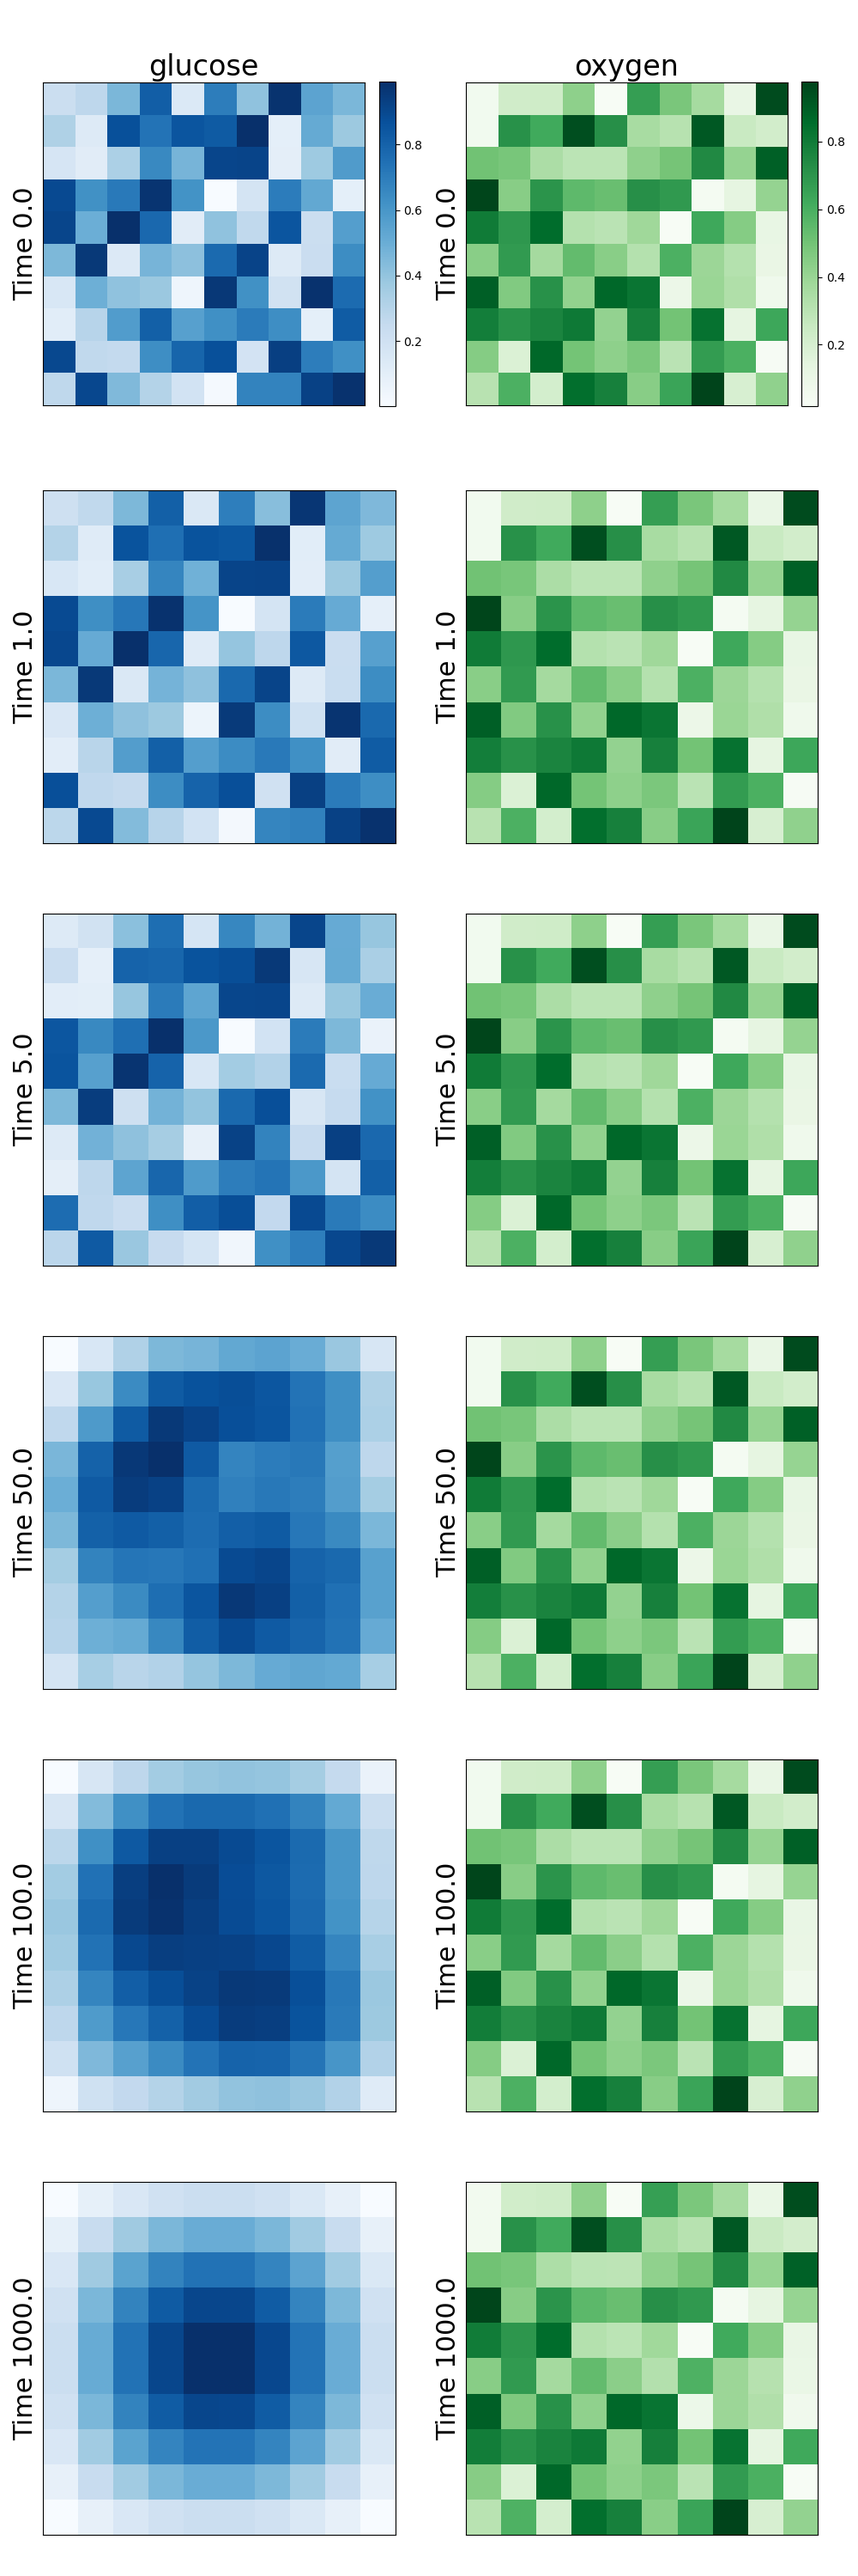
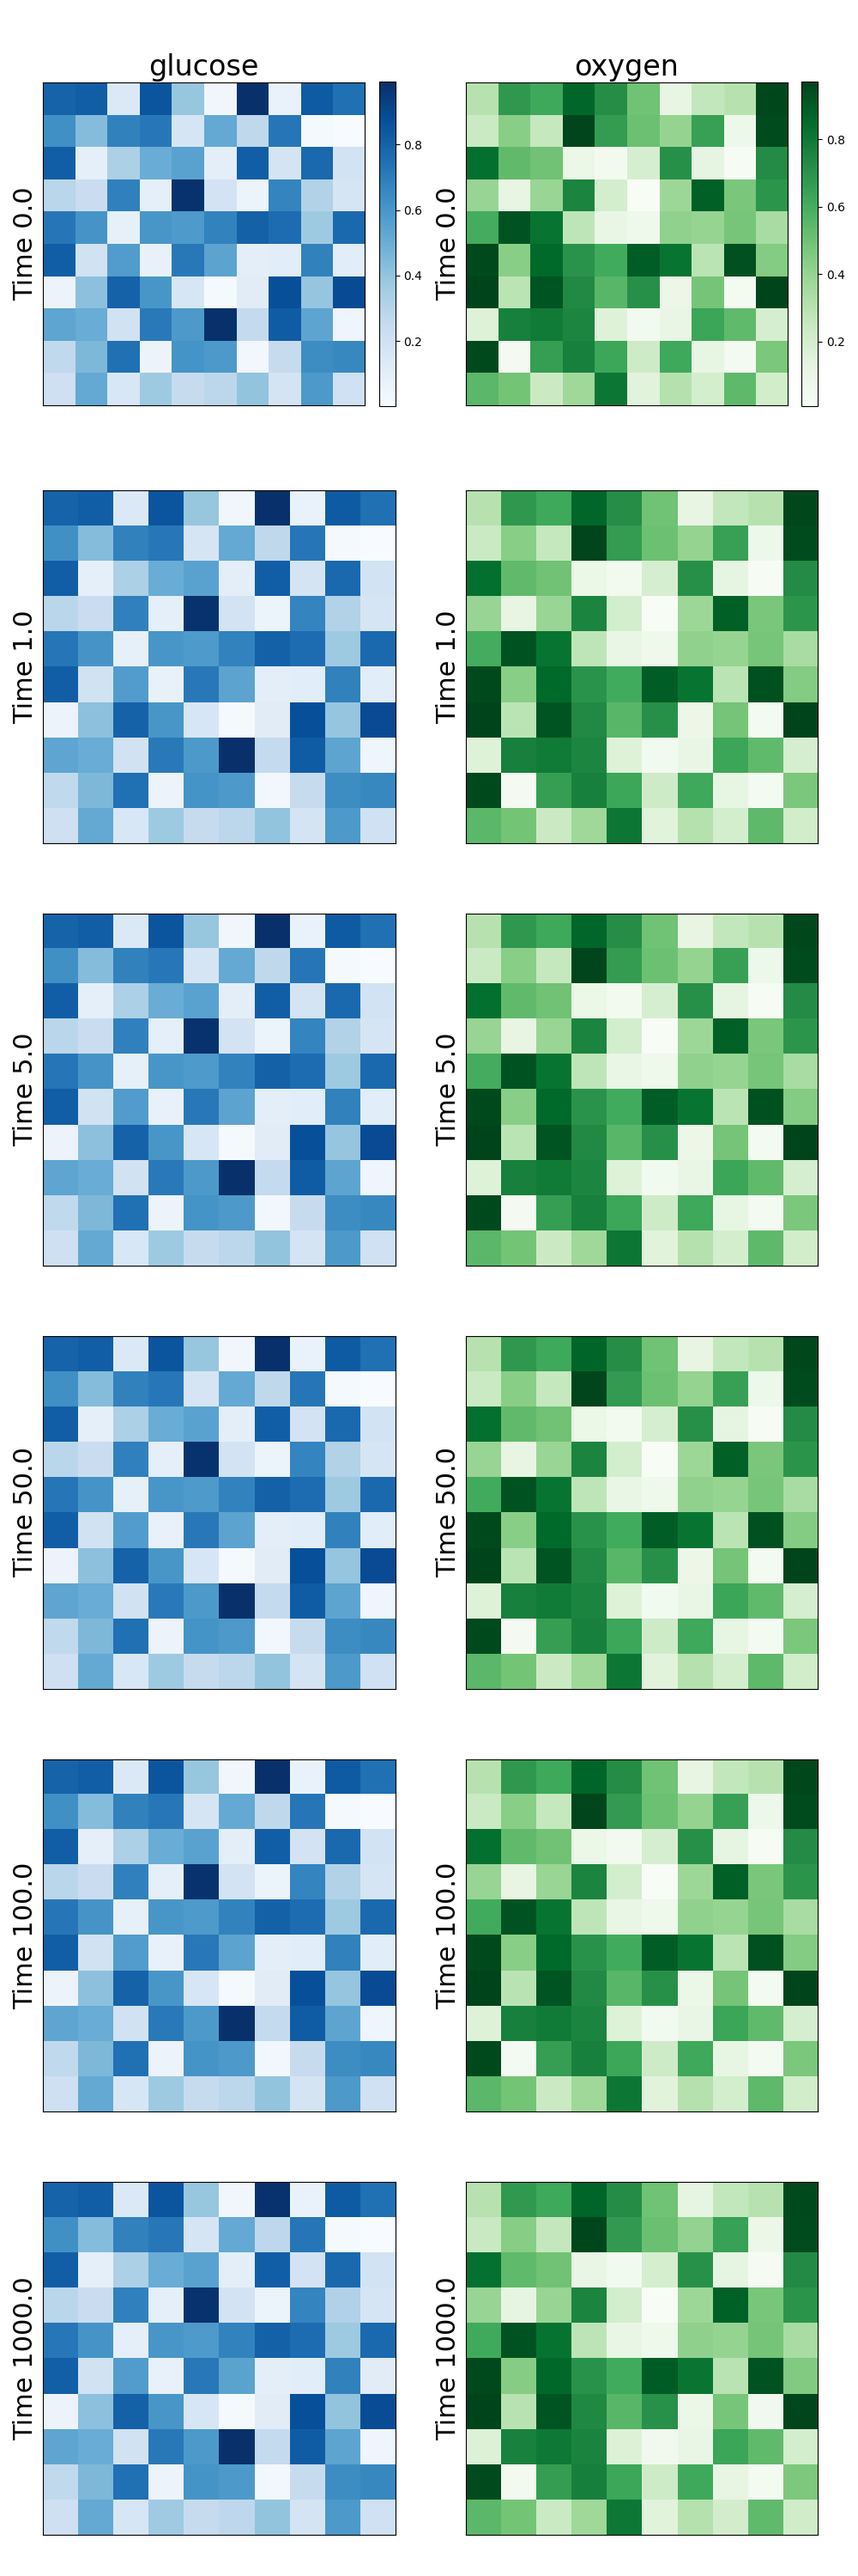
FBA test need to be fixed

diff --git a/processes/diffusion_field.py b/processes/diffusion_field.py
@@ -46,7 +46,7 @@ class DiffusionField(Process):
         'default_diffusion_dt': 0.001,
         'default_diffusion_rate': 2E-5,  # cm^2/s, set to the highest diffusion coefficient (oxygen)
         'diffusion': {
-            'glucose': 6.7E-2,        #6.7E-6,  # cm^2/s  TODO should find the current rate for cm^3
+            'glucose': 6.7E-6,  # cm^2/s  TODO should find the current rate for cm^3
             'oxygen':  2.0E-5,   # cm^2/s
         },
     }
@@ -131,7 +131,6 @@ class DiffusionField(Process):
 
     def next_update(self, timestep, states):
         fields = states['fields']
-        #cubic_dict = {} 
         fields_new = copy.deepcopy(fields)
         for mol_id, field in fields.items():
             diffusion_rate = self.molecule_specific_diffusion.get(mol_id, self.diffusion_rate)
@@ -189,7 +188,6 @@ def plot_fields_temporal(fields_data, desired_time_points, actual_time_points, z
     molecule_colormaps = {
         'glucose': 'Blues',
         'oxygen': 'Greens',
-        # Add more mappings as needed
     }
 
     for mol_idx, molecule in enumerate(fields_data.keys()):
@@ -218,9 +216,6 @@ def plot_fields_temporal(fields_data, desired_time_points, actual_time_points, z
     plt.close()
 
 
-
-
-
 class Spatial_FBA(Process):
     defaults = {
         'bounds': [3, 3, 3], # cm
@@ -240,11 +235,12 @@ class Spatial_FBA(Process):
         #load FBA models
         self.models = {}
         for species, modelpath in self.parameters["species"].items():
-            self.models[species] = read_sbml_model(modelpath)
+            self.models[species] = read_sbml_model(self.parameters['model_file'])
 
-    #TODO Species and fields similar to diffusion class
     def ports_schema(self):
         return {
+            'species': {},
+            'fields': {},
             'cubic_dict': {
                 '_default': {},
                 '_updater': 'set',
@@ -297,21 +293,12 @@ def test_fields():
             'dimensions': ('dimensions',),
         }}
     )
-
-
-
     # Run the simulation
     sim.update(total_time)
-
     # Get the results
     data = sim.emitter.get_timeseries()
-    first_oxygen_data = data['fields']['oxygen'][0] if isinstance(data['fields']['oxygen'], list) else None
-
-    # Plot the results
-    first_fields = {key: matrix[0] for key, matrix in data['fields'].items()}
     time_list=[0,1,5, 50, 100, 1000]
     # Inside test_fields function
-    
     plot_fields_temporal(fields_data=data['fields'],
                      desired_time_points=time_list, 
                      actual_time_points=data["time"], 
@@ -322,9 +309,45 @@ def test_fields():
 
 
 
+
 def test_fba():
-    #TODO make the test run fba on its own
-    pass
+    # Configuration for the spatial environment and simulation
+    total_time = 2
+    config = {
+        "bounds": [3, 3, 3],  
+        "nbins": [3, 3, 3],  
+        "molecules": ["glucose"],  
+        "species": {
+            "Alteromonas": "/Users/amin/Desktop/VivaComet/data/Alteromonas_Model.xml",  
+        }  
+    }
+
+    fba_process = Spatial_FBA(config)
+
+    # Define the initial state with some initial concentrations for the molecules
+    initial_state = {
+        'fields': {
+            'glucose': np.full((3, 3, 3), 5.0),  # Initial glucose concentration in each bin
+          
+        },
+        'species': {
+            "Alteromonas": np.full((3, 3, 3), 1.0),  # Initial biomass for Alteromonas in each bin
+        }
+    }
+
+    sim = Engine(
+        initial_state=initial_state,
+        processes={'fba_process': fba_process},
+        topology={'fba_process': {
+            'fields': ('fields',),
+            'species': ('species',),
+            'cubic_dict': ('cubic_dict',)  
+        }}
+    )
+
+    sim.update(total_time)
+    data = sim.emitter.get_timeseries()
+
 
 if __name__ == '__main__':
     test_fields()
